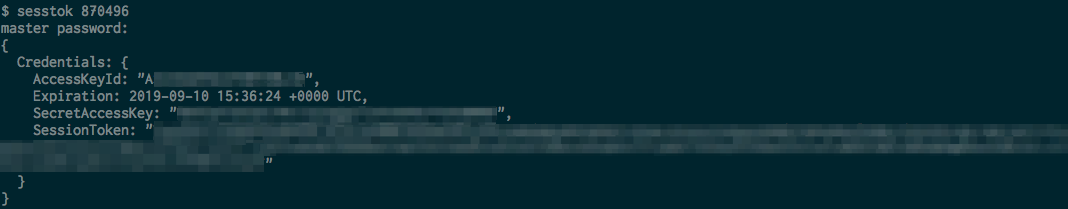
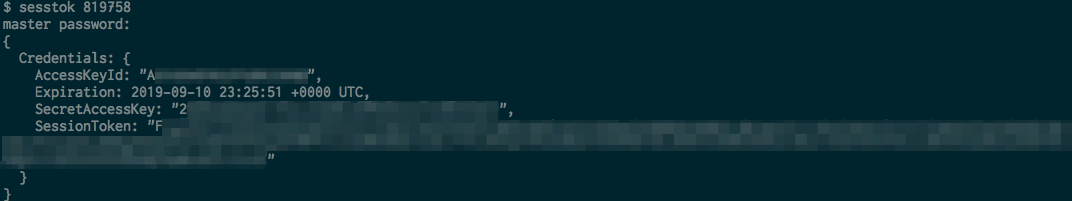
:pencil: doc

diff --git a/README.md b/README.md
@@ -38,6 +38,8 @@ Help Options:
 
 After execute the command, it updates AWS credentials file automatically.
 
+![updated_credentials](./doc/credentials.png)
+
 ### Initializing
 
 When you run this tool for the first time, it requires the initializing procedure.
